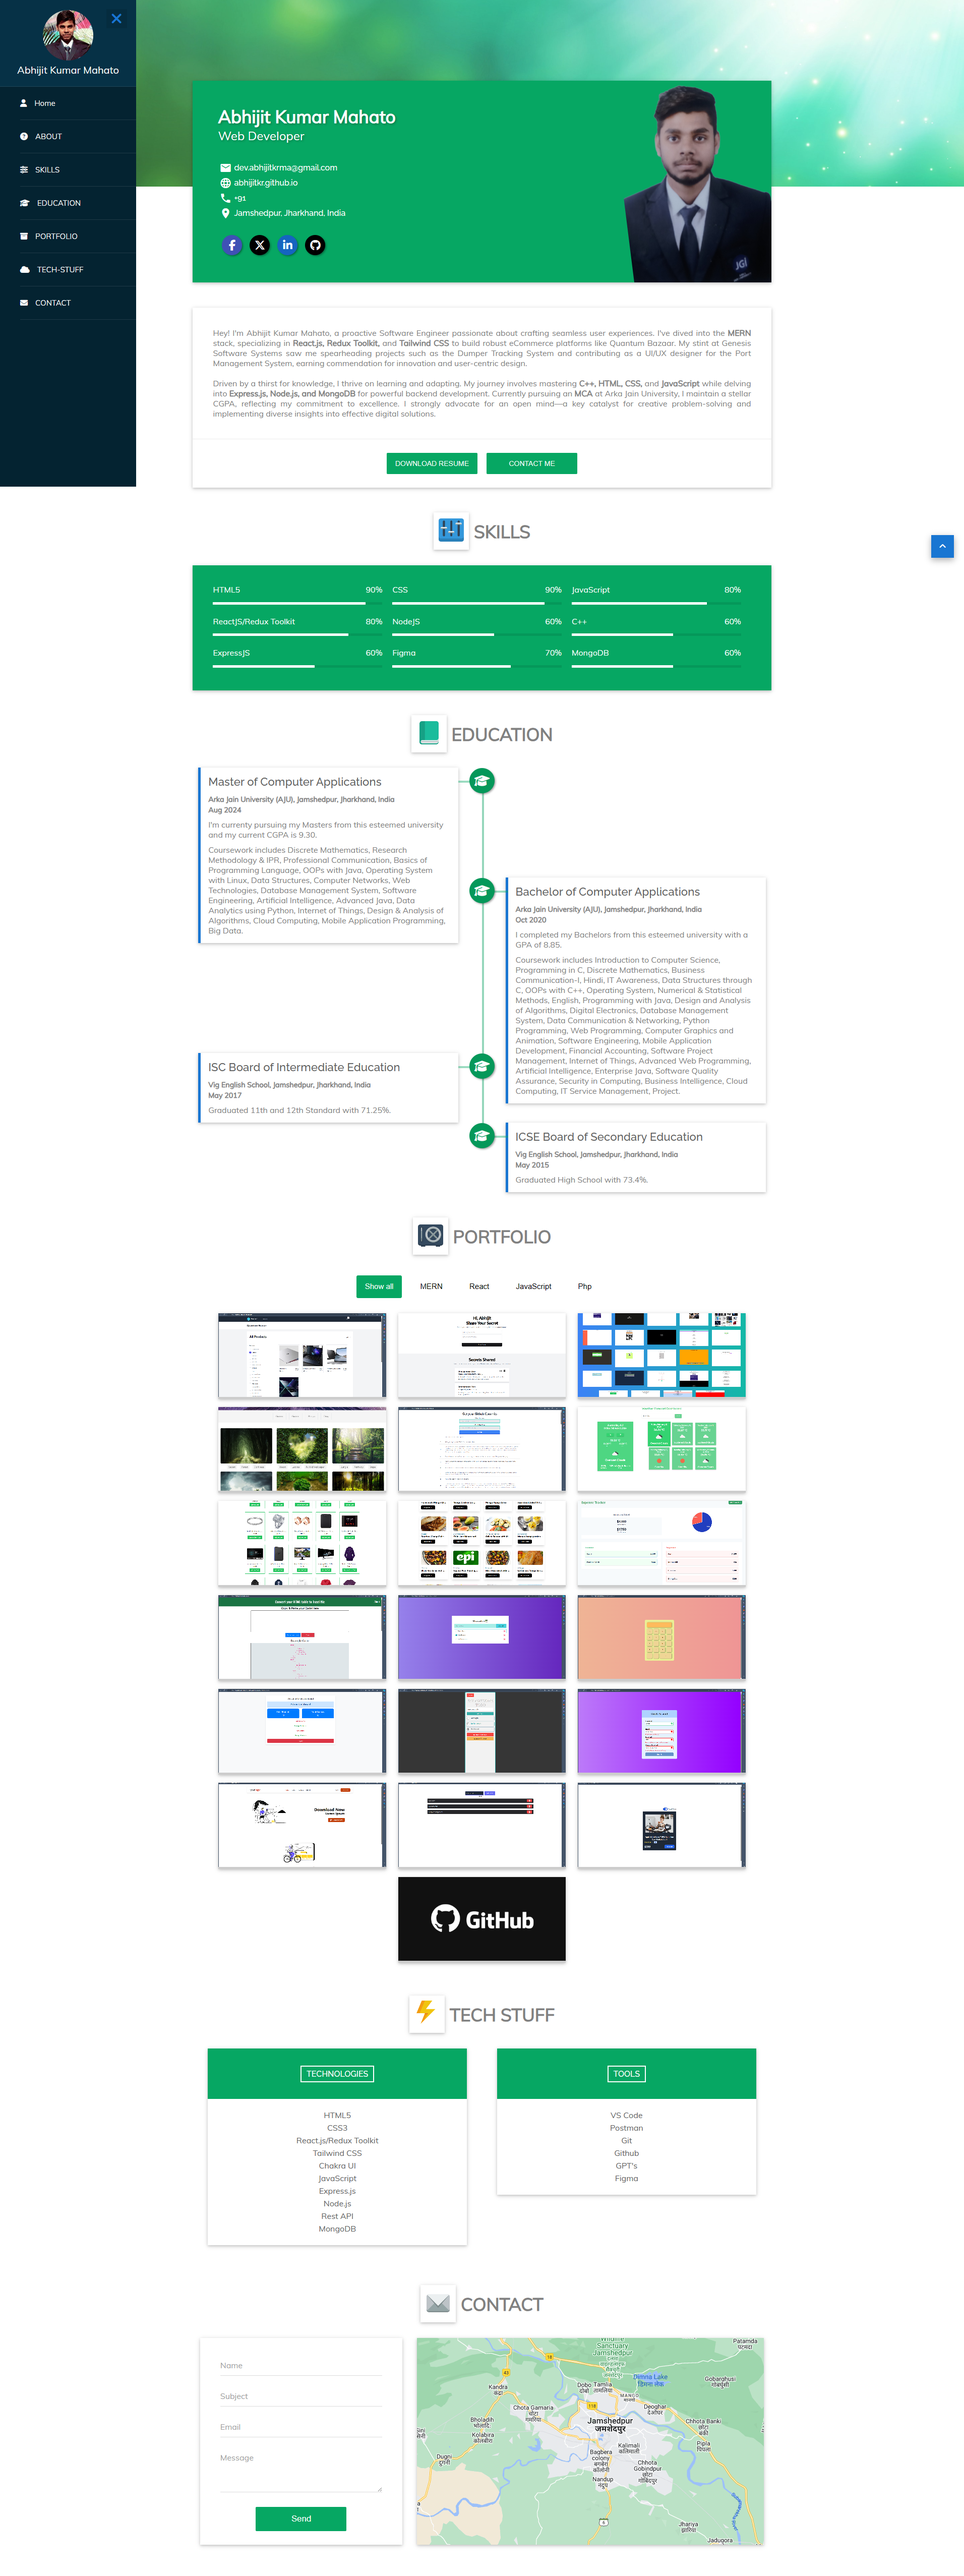
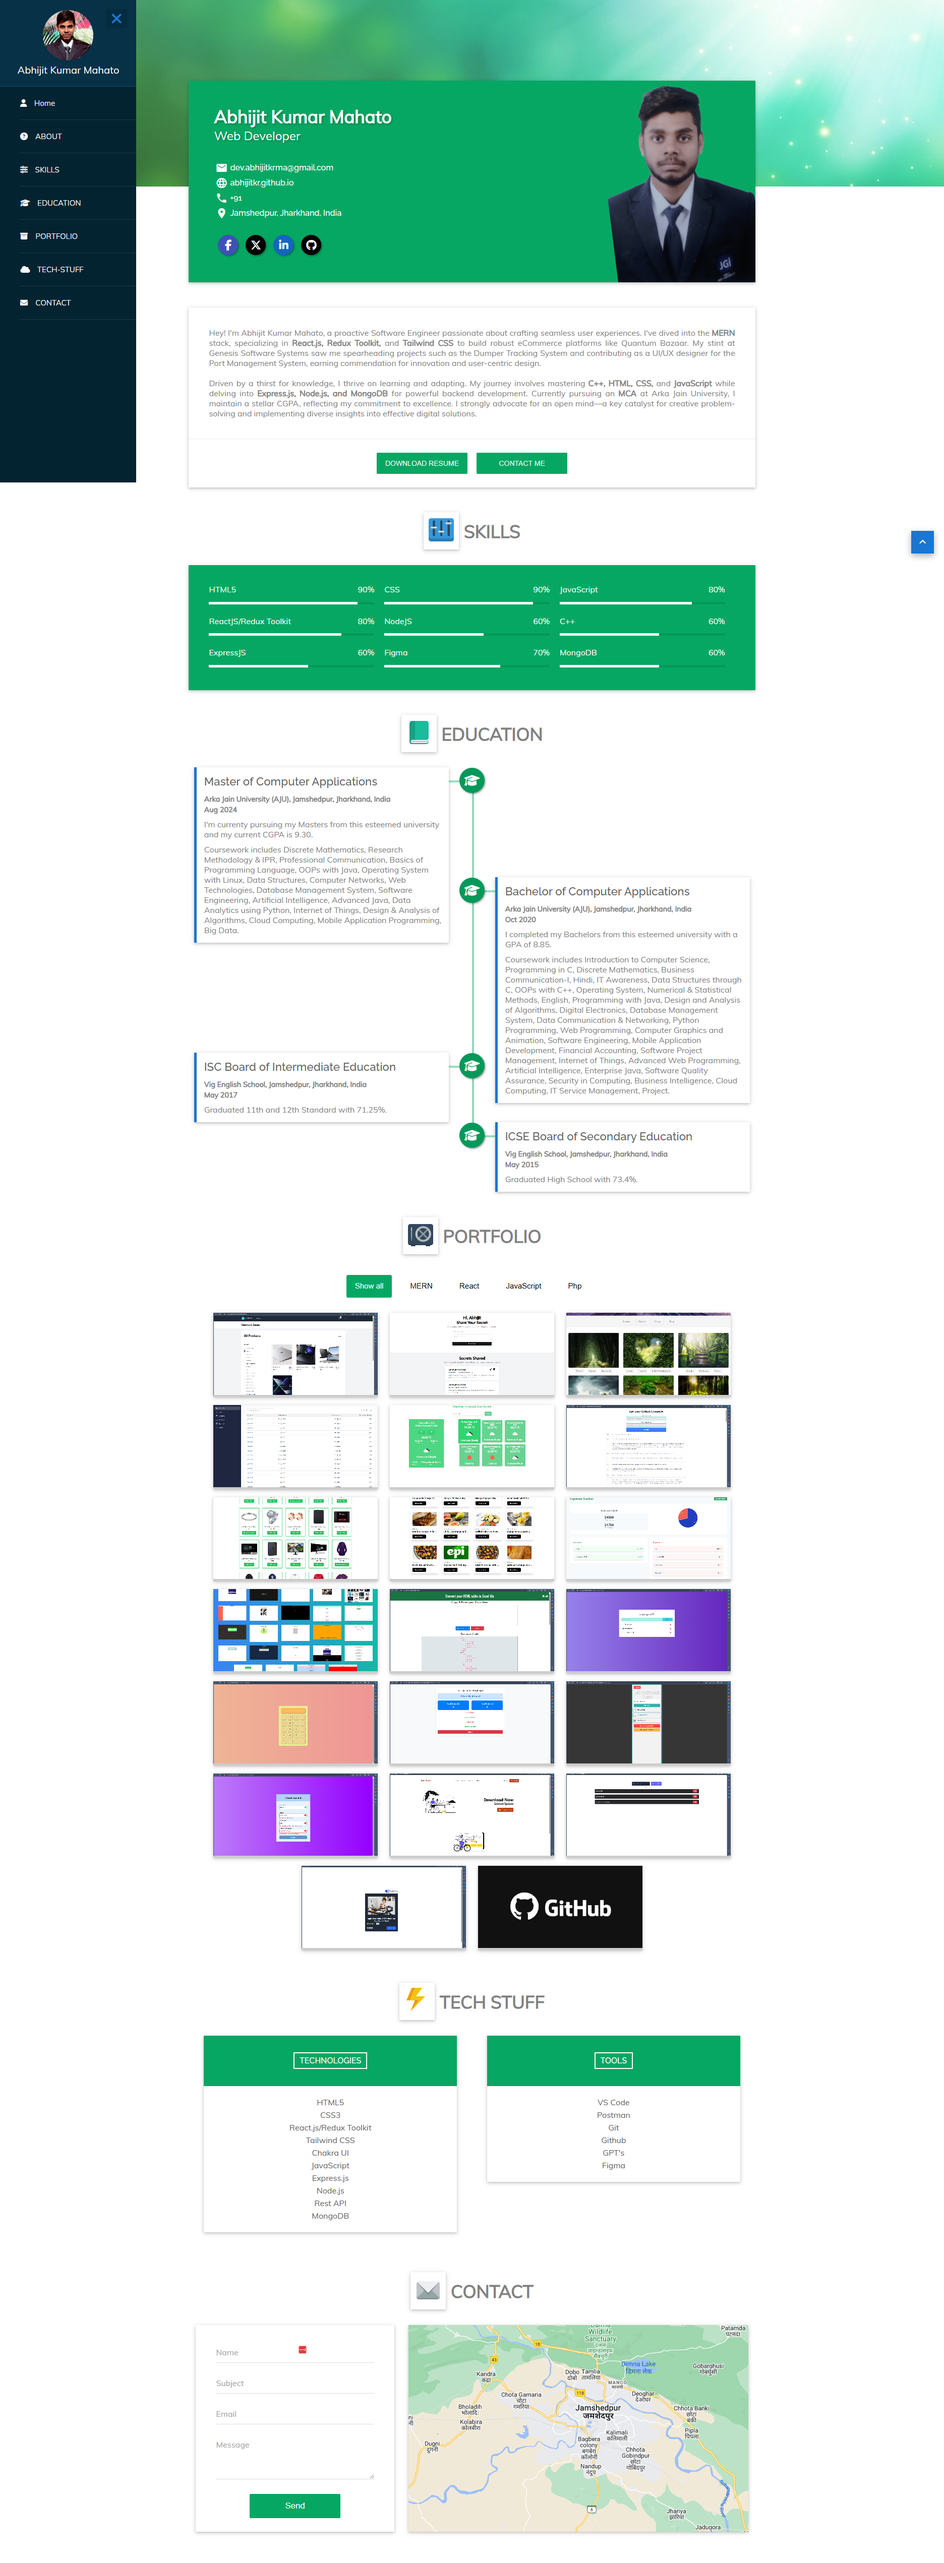
Adds Dukkan Assessment in Portfoilio Section

diff --git a/index.html b/index.html
@@ -463,26 +463,7 @@
                 </div>
               </div>
             </div>
-            <div class="portfolio-item" data-name="react" data-aos="zoom-in" data-aos-delay="50">
-              <div class="background-group">
-                <img src="./images/portfolio-thumbnails/home.png" alt="Portfolio item" class="item-image">
-                <div class="overlay">
-                  <figcaption>React Mini Projects</figcaption>
-                  <div class="button-group">
-                    <a href="https://github.com/Abhijitkr/react-mini-projects" target="_blank">
-                      <p class="link-bg btn-animation">
-                        <i class="fa-brands fa-github"></i>
-                      </p>
-                    </a>
-                    <a href="https://react-mini-projs.vercel.app" target="_blank">
-                      <p class="link-bg btn-animation">
-                        <i class="fa-solid fa-globe"></i>
-                      </p>
-                    </a>
-                  </div>
-                </div>
-              </div>
-            </div>
+            
             <div class="portfolio-item" data-name="react" data-aos="zoom-in" data-aos-delay="50">
               <div class="background-group">
                 <img src="./images/portfolio-thumbnails/imagevista.png" alt="Portfolio item" class="item-image">
@@ -507,21 +488,25 @@
                 </div>
               </div>
             </div>
+            
+
             <div class="portfolio-item" data-name="react" data-aos="zoom-in" data-aos-delay="50">
               <div class="background-group">
-                <img src="./images/portfolio-thumbnails/Extract Github Commits.png" alt="Portfolio item" class="item-image">
+                <img src="./images/portfolio-thumbnails/paymentScreen.png" alt="Portfolio item" class="item-image">
                 <div class="overlay">
-                  <figcaption>Github Commit Extractor</figcaption>
+                  <figcaption>Dukaan Payouts V2 - 2023</figcaption>
                   <div class="button-group">
-                    <a href="https://github.com/Abhijitkr/Extract-Github-Commits" target="_blank">
+                    <a href="https://github.com/Abhijitkr/Dukaan-Assignment
+                    " target="_blank">
                       <p class="link-bg btn-animation">
                         <i class="fa-brands fa-github"></i>
                       </p>
-                    </a><a href="https://youtu.be/AowUN2xTorc?si=AwTFRgf7ESz5hjvU" target="_blank">
+                    </a><a href="https://youtu.be/JvvM8Vql3ks" target="_blank">
                       <p class="link-bg btn-animation">
                         <i class="fa-brands fa-youtube"></i>
                       </p>
-                    </a><a href="https://extract-github-commits.vercel.app/" target="_blank">
+                    </a>
+                    <a href="https://dukaan-payment.netlify.app" target="_blank">
                       <p class="link-bg btn-animation">
                         <i class="fa-solid fa-globe"></i>
                       </p>
@@ -530,7 +515,6 @@
                 </div>
               </div>
             </div>
-
             <div class="portfolio-item" data-name="react" data-aos="zoom-in" data-aos-delay="50">
               <div class="background-group">
                 <img src="./images/portfolio-thumbnails/MirrarWeatherForecast.png" alt="Portfolio item" class="item-image">
@@ -555,6 +539,31 @@
                 </div>
               </div>
             </div>
+
+            <div class="portfolio-item" data-name="react" data-aos="zoom-in" data-aos-delay="50">
+              <div class="background-group">
+                <img src="./images/portfolio-thumbnails/Extract Github Commits.png" alt="Portfolio item" class="item-image">
+                <div class="overlay">
+                  <figcaption>Github Commit Extractor</figcaption>
+                  <div class="button-group">
+                    <a href="https://github.com/Abhijitkr/Extract-Github-Commits" target="_blank">
+                      <p class="link-bg btn-animation">
+                        <i class="fa-brands fa-github"></i>
+                      </p>
+                    </a><a href="https://youtu.be/AowUN2xTorc?si=AwTFRgf7ESz5hjvU" target="_blank">
+                      <p class="link-bg btn-animation">
+                        <i class="fa-brands fa-youtube"></i>
+                      </p>
+                    </a><a href="https://extract-github-commits.vercel.app/" target="_blank">
+                      <p class="link-bg btn-animation">
+                        <i class="fa-solid fa-globe"></i>
+                      </p>
+                    </a>
+                  </div>
+                </div>
+              </div>
+            </div>
+            
             <div class="portfolio-item" data-name="react" data-aos="zoom-in" data-aos-delay="50">
               <div class="background-group">
                 <img src="./images/portfolio-thumbnails/shopping-cart.png" alt="Portfolio item" class="item-image">
@@ -607,6 +616,27 @@
                       </p>
                     </a>
                     <a href="https://expense-tracker-chakra.netlify.app/" target="_blank">
+                      <p class="link-bg btn-animation">
+                        <i class="fa-solid fa-globe"></i>
+                      </p>
+                    </a>
+                  </div>
+                </div>
+              </div>
+            </div>
+
+            <div class="portfolio-item" data-name="react" data-aos="zoom-in" data-aos-delay="50">
+              <div class="background-group">
+                <img src="./images/portfolio-thumbnails/home.png" alt="Portfolio item" class="item-image">
+                <div class="overlay">
+                  <figcaption>React Mini Projects</figcaption>
+                  <div class="button-group">
+                    <a href="https://github.com/Abhijitkr/react-mini-projects" target="_blank">
+                      <p class="link-bg btn-animation">
+                        <i class="fa-brands fa-github"></i>
+                      </p>
+                    </a>
+                    <a href="https://react-mini-projs.vercel.app" target="_blank">
                       <p class="link-bg btn-animation">
                         <i class="fa-solid fa-globe"></i>
                       </p>
